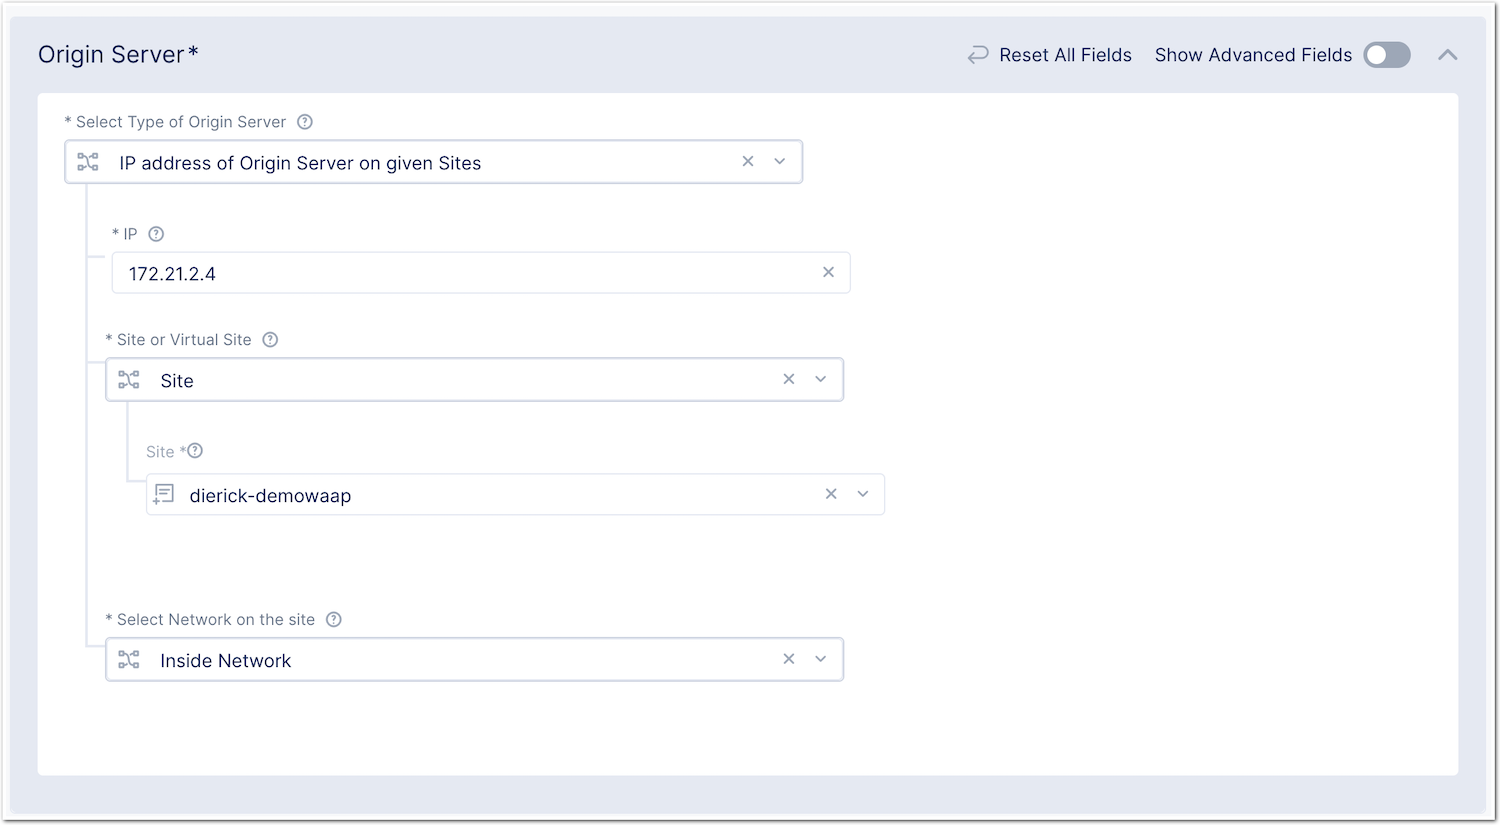
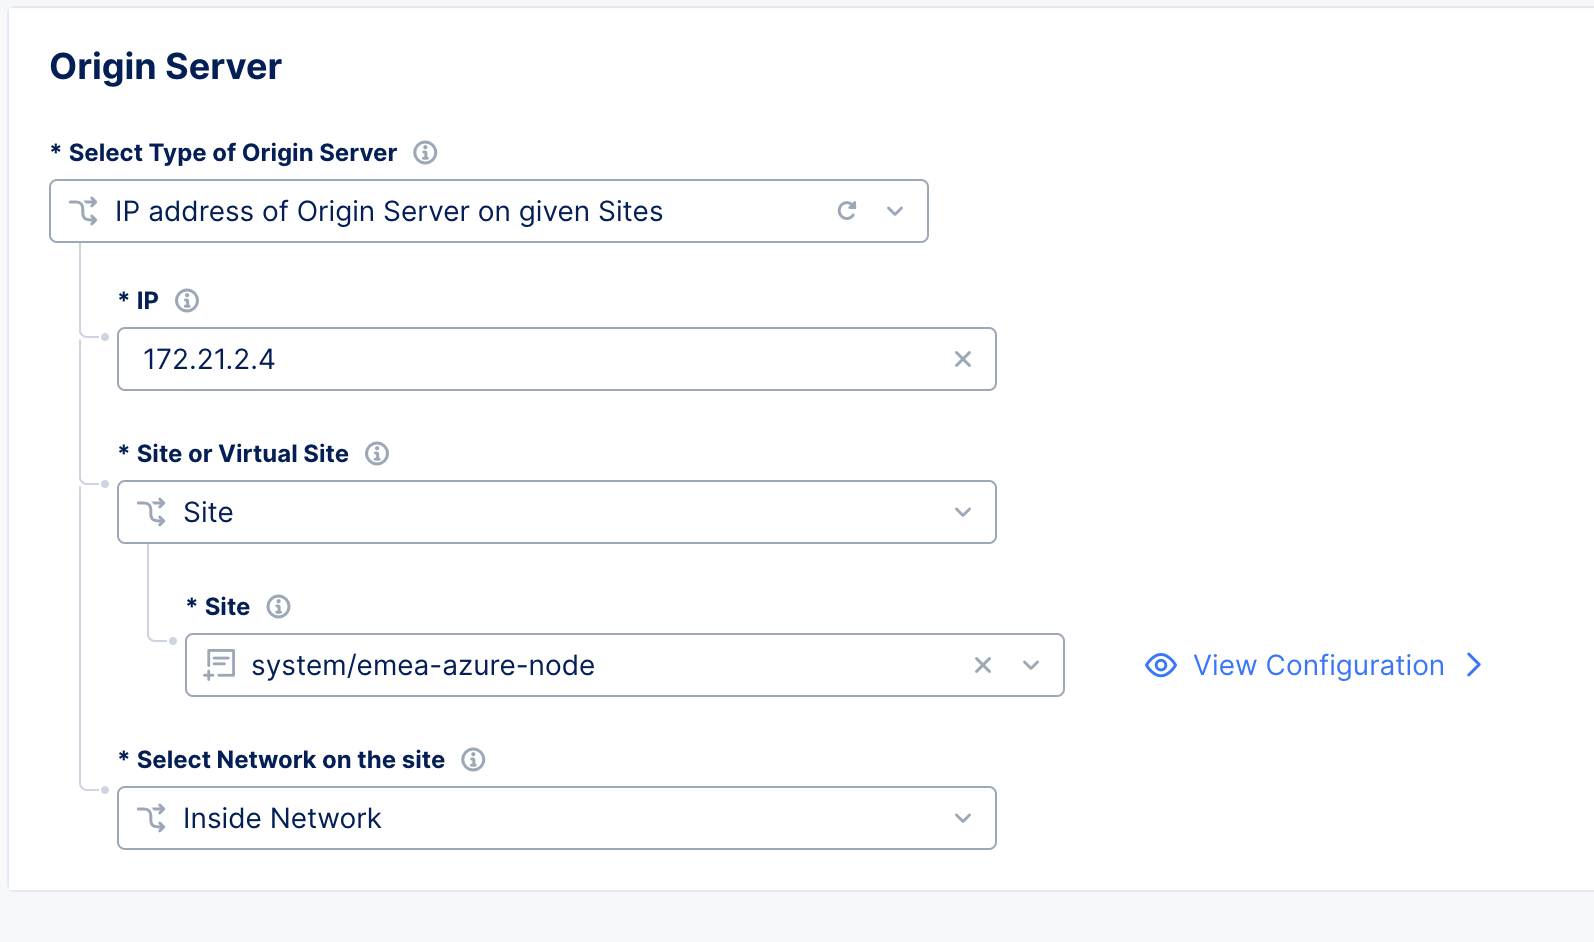
module1

diff --git a/docs/class1/module2/lab1/lab1.rst b/docs/class1/module2/lab1/lab1.rst
@@ -9,14 +9,14 @@ For this lab, we will use the following object naming convention
 .. table:: Naming Convention
    :widths: auto
 
-   ===============    ========================================================================================
+   ===============    ===========================================================================================
    Object               Value
-   ===============    ========================================================================================
-   HTTP LB              **EMEA-SE** tenant : https://arcadia-<se_name>.emea-ent.f5demos.com
+   ===============    ===========================================================================================
+   HTTP LB              **EMEA-SE** tenant : https://arcadia-re-ce-<se_name>.emea-ent.f5demos.com
                         
-                        **F5-SALES-PUBLIC** tenant : https://arcadia-<student_number>.sales-public.f5demos.com
+                        **F5-EMEA-WORKSHOP** tenant : https://arcadia-re-ce-<student_name>.workshop.emea.f5se.com
 
-                        **F5-CHANNEL** tenant : https://arcadia-<partner-name>.f5-channel.f5demos.com
+                        **F5-CHANNEL** tenant : https://arcadia-re-ce-<partner-name>.f5-channel.f5demos.com
 
                         Enable HTTPS AutoCert
 
@@ -26,7 +26,7 @@ For this lab, we will use the following object naming convention
    
                         Site for **EMEA-SE tenant** ``demo-waap-emea``
 
-                        Site for **F5-SALES-PUBLIC tenant** ``emea-azure-waap``
+                        Site for **F5-EMEA-WORKSHOP tenant** ``emea-azure-node``
 
                         Site for **F5-CHANNEL tenant** ``azure-emea-waap``
    
@@ -35,7 +35,7 @@ For this lab, we will use the following object naming convention
                         Port 80
 
                         NO TLS
-   ===============    ========================================================================================
+   ===============    ===========================================================================================
 
 * Check you are in your Namespace
 * Create the Origin Pool targeting Arcadia private IP on given site

diff --git a/docs/class1/module3/lab1/lab1.rst b/docs/class1/module3/lab1/lab1.rst
@@ -6,7 +6,7 @@ For this lab, as the Mesh Node is shared between all SE/Students, we will use a 
 FYI, the public Azure IP address of the node is:
 
 * For **EMEA-SE tenant** ``20.224.0.208``
-* For **F5-SALES-PUBLIC tenant** ``20.86.17.42``
+* For **F5-EMEA-WORKSHOP tenant** ``74.234.144.33``
 * For **F5-CHANNEL tenant** ``20.107.50.6``
 
 Create a HTTP LB and expose it on the Mesh Node only
@@ -19,16 +19,16 @@ If you understand correctly this use case, we want the WAAP policy applied on a 
 * Select the Origin Pool used and created in the previous lab. The private Origin Pool.
 * Expose this LB on the corresponding site (based on your tenant)
 
-    ==========================    ===============
-    Tenant                        Site name
-    ==========================    ===============
-    **EMEA-SE** tenant            demo-waap-emea
+    ===========================    ===============
+    Tenant                         Site name
+    ===========================    ===============
+    **EMEA-SE** tenant             demo-waap-emea
                             
-    **F5-SALES-PUBLIC** tenant    emea-azure-waap
+    **F5-EMEA-WORKSHOP** tenant    emea-azure-node
 
-    **F5-CHANNEL** tenant         azure-emea-waap
+    **F5-CHANNEL** tenant          azure-emea-waap
 
-    ==========================    ===============
+    ===========================    ===============
 
 
   * In VIP Configuration, enable ``Show Advanced Fields``
